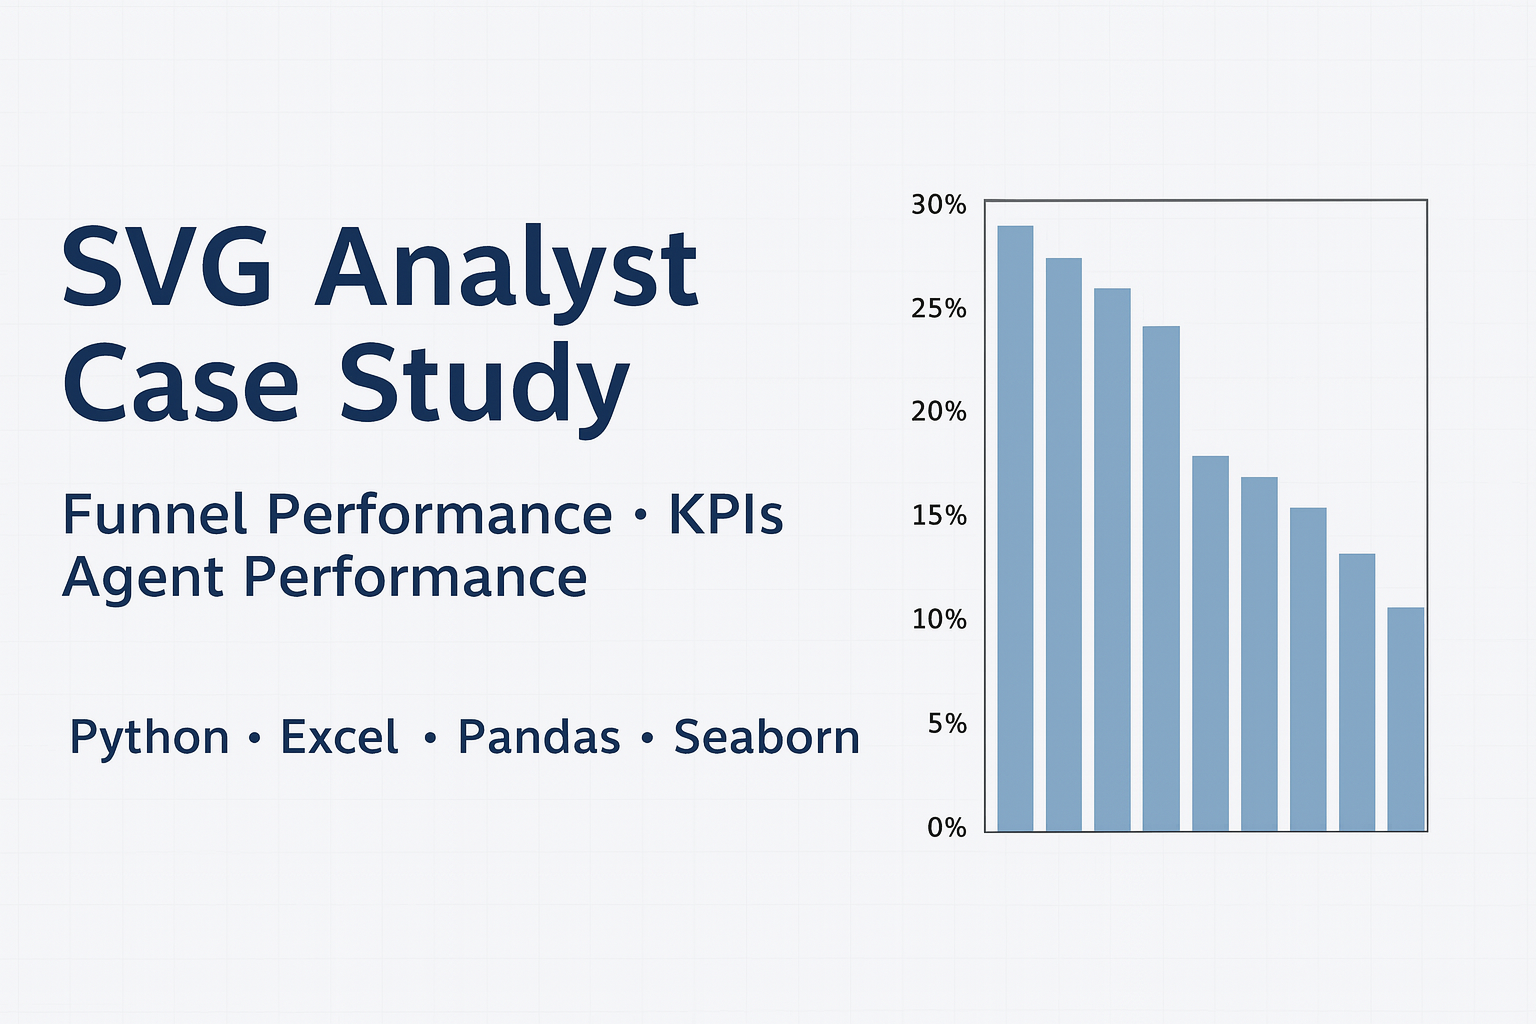
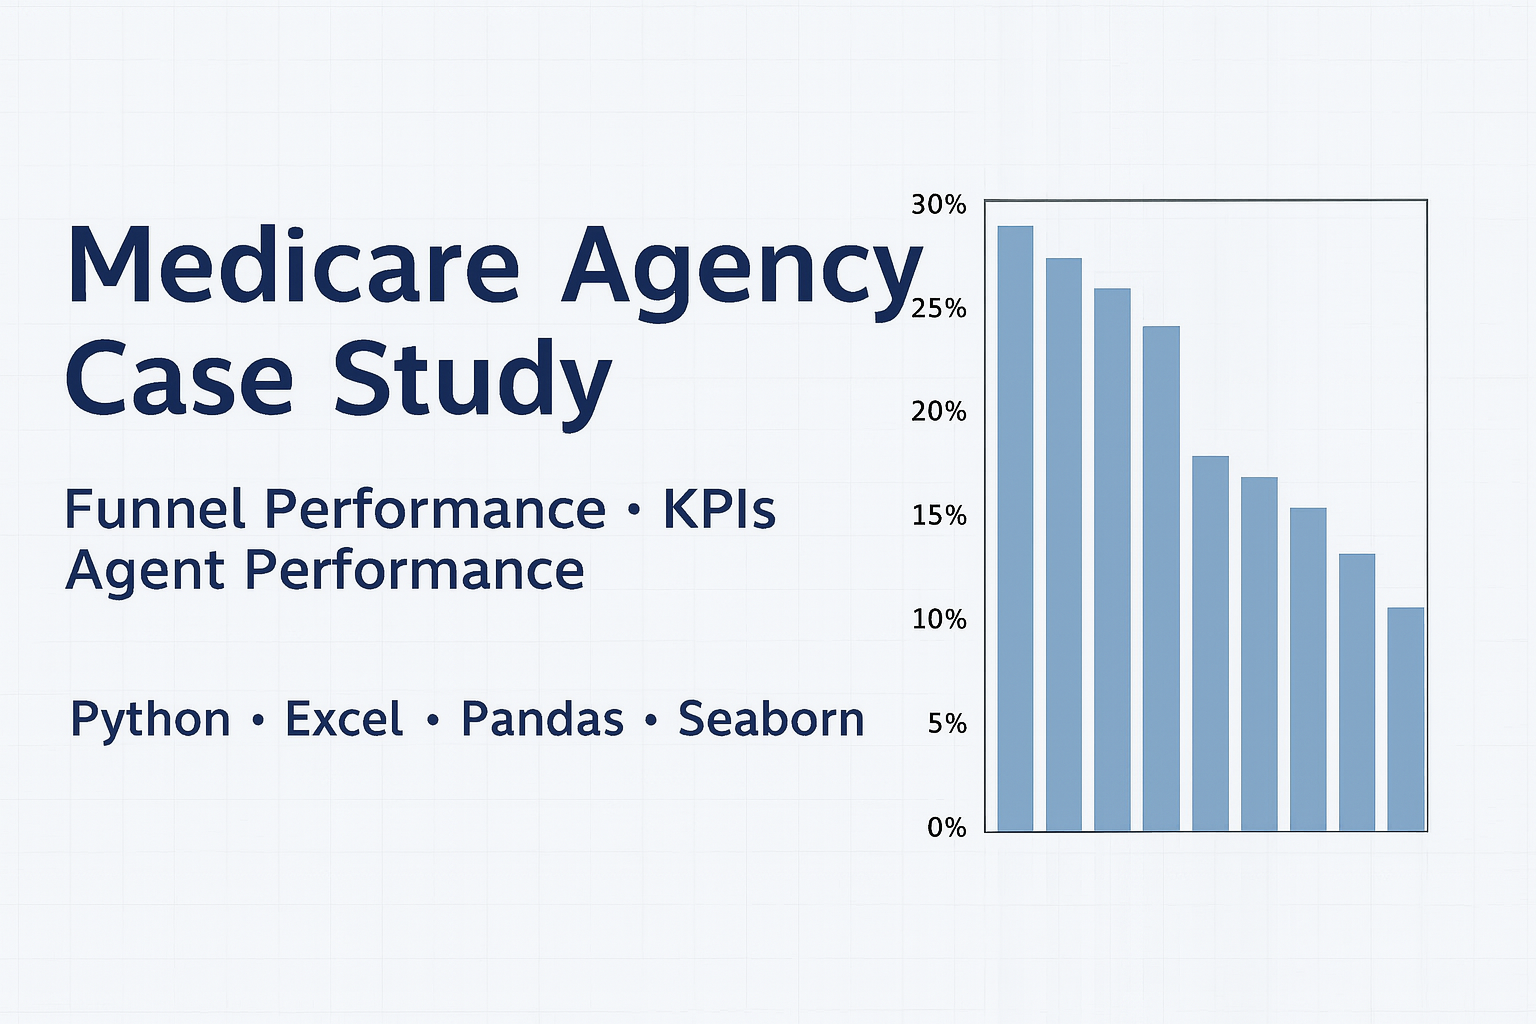
name changes

diff --git a/README.md b/README.md
@@ -1,10 +1,10 @@
-# Systems Analyst Case Study – Spring Venture Group (Fictional Data)
+# Funnel KPI Case Study (Fictional Data)
 
-![SVG Analyst Case Study Thumbnail](figures/project_thumbnail.png)
-This project was completed as part of an interview process for a **Business Analytics Systems Analyst** role at Spring Venture Group. The dataset simulated real-world insurance sales activity, and the goal was to analyze agent performance, sales pipeline velocity, and quota alignment.
+![Case Study Thumbnail](figures/project_thumbnail.png)
+This project's dataset is simulated real-world insurance sales activity, and the goal was to analyze agent performance, sales pipeline velocity, and quota alignment.
 
 ---
-> ⚠ **Note:** All data is fictional and provided for interview purposes only. No proprietary or real client data is included.
+> ⚠ **Note:** All data is fictional. No proprietary or real client data is included.
 
 ---
 
@@ -77,10 +77,10 @@ Key metrics and KPIs included:
 ## 📁 Repo Structure
 
 ```md
-SVG-Analyst-Case-Study/
+Funnel-KPI-Case-Study/
 ├── README.md
 ├── LICENSE
-├── SVG_BA_Systems_Analyst.ipynb # Main analysis notebook
+├── Medicare_Funnel_Analysis.ipynb # Main analysis notebook
 ├── docs
 │   └── data_structure.md # Summary of dataset schema
 ├── environment.yml
